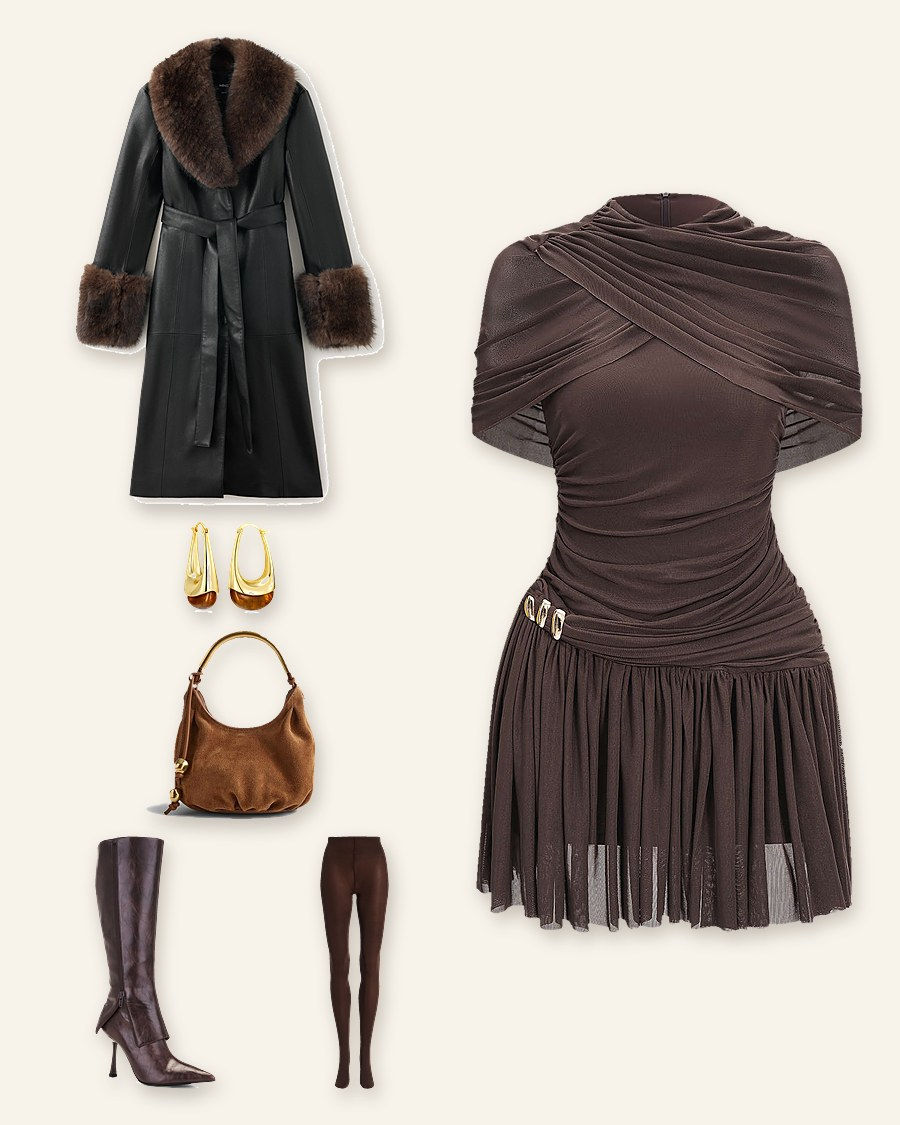
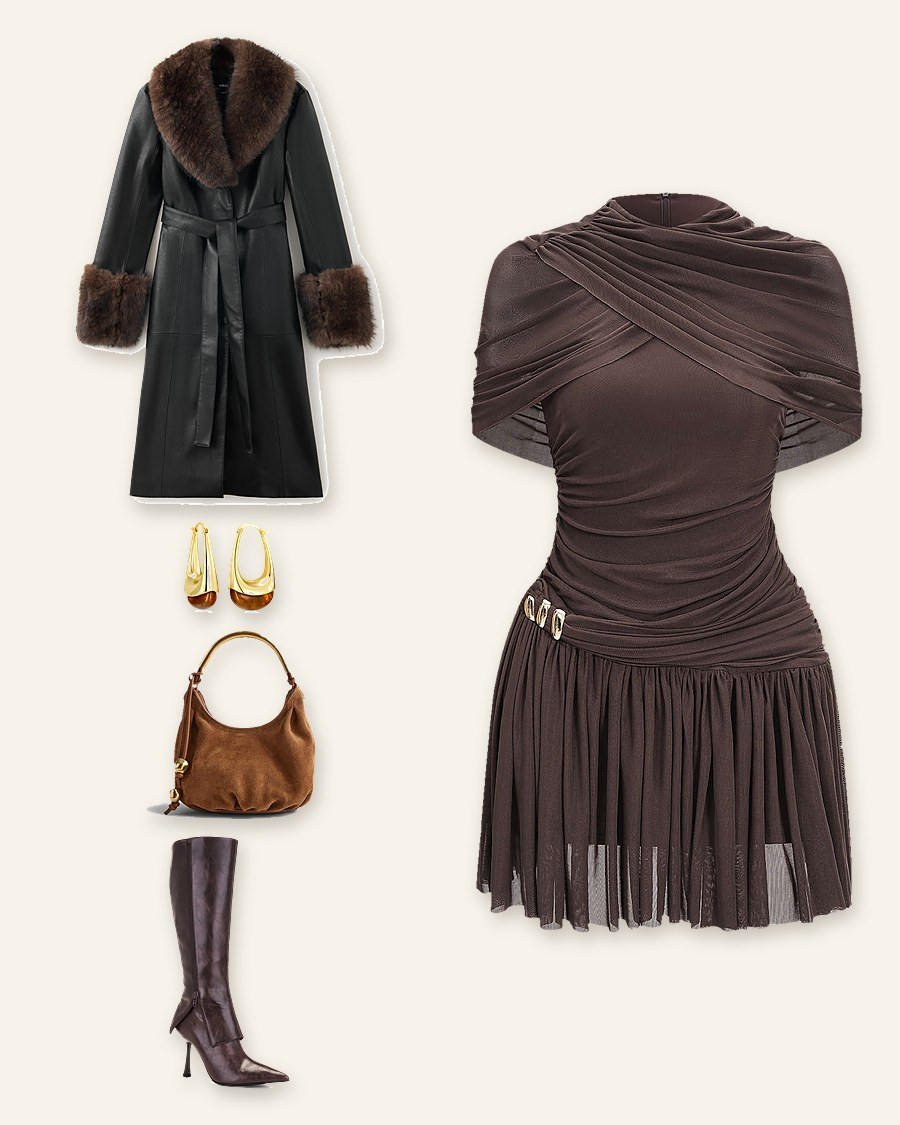
Winter Edit: tights off five looks, corset look gets new pants, Cocoa Trench new shoes, Mary Jane Monday loses the jacket
Claude-Session: https://claude.ai/code/session_01FUdN8BrrqRcBgv91ujUewX

Changed region(s): [[0.0933, 0.7467, 0.3111, 0.9956], [0.3422, 0.7156, 0.4356, 0.9644]]

diff --git a/lookbook.js b/lookbook.js
@@ -12,16 +12,16 @@ var LOOKBOOK = [
   {"title": "Lemon Drop", "slug": "lemon-drop", "pieces": ["Yellow mesh one-shoulder mini dress", "Black and zebra platform sandals", "Burgundy slouchy hobo bag", "Chunky gold amber earrings", "Chunky bangle set"], "wear": ["Birthday", "Night out"], "tag": "Birthday", "colors": [["Butter", "#E8D36A"], ["Taupe", "#8B7B6B"], ["Chocolate", "#4A2A1E"]], "caption": "A Winter Edit look: yellow mesh one-shoulder mini dress, finished with black and zebra platform sandals and a burgundy slouchy hobo bag.", "image": "images/lookbook/art-lemon-drop.jpg", "art": "images/lookbook/art-lemon-drop.jpg", "alt": "HerStyleVault Edit style board: yellow mesh one-shoulder mini dress, black and zebra platform sandals, burgundy slouchy hobo bag, chunky gold amber earrings, chunky bangle set"},
   {"title": "Navy & Merlot", "slug": "navy-and-merlot", "pieces": ["Navy flare-sleeve cinched dress", "Burgundy platform knit boots", "Burgundy croc box bag", "Tortoise gold hoop earrings", "Black tights"], "wear": ["Wedding guest", "Dinner"], "tag": "Wedding guest", "colors": [["Navy", "#1E2B4F"], ["Chocolate", "#4A2A1E"]], "caption": "A Winter Edit look: navy flare-sleeve cinched dress, finished with burgundy platform knit boots and a burgundy croc box bag.", "image": "images/lookbook/art-navy-and-merlot.jpg", "art": "images/lookbook/art-navy-and-merlot.jpg", "alt": "HerStyleVault Edit style board: navy flare-sleeve cinched dress, burgundy platform knit boots, burgundy croc box bag, tortoise gold hoop earrings, black tights"},
   {"title": "Satin Espresso", "slug": "satin-espresso", "pieces": ["Brown satin halter and pants set", "Cow-print slingback heels", "Brown suede clutch", "Chunky gold amber earrings", "Pink-burgundy oval sunglasses"], "wear": ["Date night", "Dinner", "Wedding guest"], "tag": "Date night", "colors": [["Chocolate", "#4A2A1E"], ["Gray", "#8B8B8B"]], "caption": "A Winter Edit look: brown satin halter and pants set, finished with cow-print slingback heels and a brown suede clutch.", "image": "images/lookbook/art-satin-espresso.jpg", "art": "images/lookbook/art-satin-espresso.jpg", "alt": "HerStyleVault Edit style board: brown satin halter and pants set, cow-print slingback heels, brown suede clutch, chunky gold amber earrings, pink-burgundy oval sunglasses"},
-  {"title": "Cocoa Leather Moment", "slug": "cocoa-leather-moment", "pieces": ["Brown faux-leather peplum top", "Brown faux-leather skirt", "Brown multi stiletto booties", "Patchwork shoulder bag", "Chunky gold amber earrings", "Burgundy sheer tights"], "wear": ["Night out", "Dinner"], "tag": "Night out", "colors": [["Chocolate", "#4A2A1E"], ["Espresso", "#33211B"], ["Gray", "#8B8B8B"]], "caption": "A Winter Edit look: brown faux-leather peplum top, brown faux-leather skirt, finished with brown multi stiletto booties and a patchwork shoulder bag.", "image": "images/lookbook/art-cocoa-leather-moment.jpg", "art": "images/lookbook/art-cocoa-leather-moment.jpg", "alt": "HerStyleVault Edit style board: brown faux-leather peplum top, brown faux-leather skirt, brown multi stiletto booties, patchwork shoulder bag, chunky gold amber earrings"},
+  {"title": "Cocoa Leather Moment", "slug": "cocoa-leather-moment", "pieces": ["Brown faux-leather peplum top", "Brown faux-leather skirt", "Brown multi stiletto booties", "Patchwork shoulder bag", "Chunky gold amber earrings"], "wear": ["Night out", "Dinner"], "tag": "Night out", "colors": [["Chocolate", "#4A2A1E"], ["Espresso", "#33211B"], ["Gray", "#8B8B8B"]], "caption": "A Winter Edit look: brown faux-leather peplum top, brown faux-leather skirt, finished with brown multi stiletto booties and a patchwork shoulder bag.", "image": "images/lookbook/art-cocoa-leather-moment.jpg", "art": "images/lookbook/art-cocoa-leather-moment.jpg", "alt": "HerStyleVault Edit style board: brown faux-leather peplum top, brown faux-leather skirt, brown multi stiletto booties, patchwork shoulder bag, chunky gold amber earrings"},
   {"title": "Cocoa Errands", "slug": "cocoa-errands", "pieces": ["Brown tracksuit set", "Green Nike Air Rift sneakers", "Burgundy slouchy hobo bag", "Tortoise gold hoop earrings", "Brown Kangol cap", "Green tinted sunglasses"], "wear": ["Day out", "Brunch"], "tag": "Day out", "colors": [["Chocolate", "#4A2A1E"], ["Forest", "#1E4D36"]], "caption": "A Winter Edit look: brown tracksuit set, finished with green Nike Air Rift sneakers and a burgundy slouchy hobo bag.", "image": "images/lookbook/art-cocoa-errands.jpg", "art": "images/lookbook/art-cocoa-errands.jpg", "alt": "HerStyleVault Edit style board: brown tracksuit set, green Nike Air Rift sneakers, burgundy slouchy hobo bag, tortoise gold hoop earrings, brown Kangol cap"},
   {"title": "Vest Assured", "slug": "vest-assured", "pieces": ["Navy vest and striped shirt", "Brown tailored trousers", "Burgundy Mary Jane flats", "Burgundy slouchy hobo bag", "Chunky gold amber earrings", "Burgundy dial gold watch"], "wear": ["Day out", "Birthday"], "tag": "Day out", "colors": [["Powder blue", "#8FA9C9"], ["Chocolate", "#4A2A1E"]], "caption": "A Winter Edit look: navy vest and striped shirt, brown tailored trousers, finished with burgundy Mary Jane flats and a burgundy slouchy hobo bag.", "image": "images/lookbook/art-vest-assured.jpg", "art": "images/lookbook/art-vest-assured.jpg", "alt": "HerStyleVault Edit style board: navy vest and striped shirt, brown tailored trousers, burgundy Mary Jane flats, burgundy slouchy hobo bag, chunky gold amber earrings"},
   {"title": "Powder Blue Sunday", "slug": "powder-blue-sunday", "pieces": ["Powder blue knit zip-up", "Khaki wide-leg jeans", "Burgundy kitten-heel slingbacks", "Burgundy slouchy hobo bag", "Tortoise gold hoop earrings", "Chunky bangle set"], "wear": ["Baby shower", "Brunch", "Day out"], "tag": "Baby shower", "colors": [["Powder blue", "#8FA9C9"], ["Taupe", "#8B7B6B"], ["Chocolate", "#4A2A1E"]], "caption": "A Winter Edit look: powder blue knit zip-up, khaki wide-leg jeans, finished with burgundy kitten-heel slingbacks and a burgundy slouchy hobo bag.", "image": "images/lookbook/art-powder-blue-sunday.jpg", "art": "images/lookbook/art-powder-blue-sunday.jpg", "alt": "HerStyleVault Edit style board: powder blue knit zip-up, khaki wide-leg jeans, burgundy kitten-heel slingbacks, burgundy slouchy hobo bag, tortoise gold hoop earrings"},
-  {"title": "Pinstripe & Platforms", "slug": "pinstripe-and-platforms", "pieces": ["Gray lace-up cutout top", "Black pinstripe jorts", "Burgundy platform knit boots", "Brown suede clutch", "Chunky gold amber earrings", "Black tights"], "wear": ["Night out", "Birthday"], "tag": "Night out", "colors": [["Olive", "#5C5A3A"], ["Espresso", "#33211B"], ["Chocolate", "#4A2A1E"]], "caption": "A Winter Edit look: gray lace-up cutout top, black pinstripe jorts, finished with burgundy platform knit boots and a brown suede clutch.", "image": "images/lookbook/art-pinstripe-and-platforms.jpg", "art": "images/lookbook/art-pinstripe-and-platforms.jpg", "alt": "HerStyleVault Edit style board: gray lace-up cutout top, black pinstripe jorts, burgundy platform knit boots, brown suede clutch, chunky gold amber earrings"},
+  {"title": "Pinstripe & Platforms", "slug": "pinstripe-and-platforms", "pieces": ["Gray lace-up cutout top", "Black pinstripe jorts", "Burgundy platform knit boots", "Brown suede clutch", "Chunky gold amber earrings"], "wear": ["Night out", "Birthday"], "tag": "Night out", "colors": [["Olive", "#5C5A3A"], ["Espresso", "#33211B"], ["Chocolate", "#4A2A1E"]], "caption": "A Winter Edit look: gray lace-up cutout top, black pinstripe jorts, finished with burgundy platform knit boots and a brown suede clutch.", "image": "images/lookbook/art-pinstripe-and-platforms.jpg", "art": "images/lookbook/art-pinstripe-and-platforms.jpg", "alt": "HerStyleVault Edit style board: gray lace-up cutout top, black pinstripe jorts, burgundy platform knit boots, brown suede clutch, chunky gold amber earrings"},
   {"title": "Cheetah Capri Club", "slug": "cheetah-capri-club", "pieces": ["Black asymmetric-neck sweatshirt", "Leopard denim capris", "Brown multi stiletto booties", "Burgundy croc box bag", "Tortoise gold hoop earrings", "Chunky bangle set"], "wear": ["Day out", "Brunch", "Night out"], "tag": "Day out", "colors": [["Black", "#1A1A1A"], ["Olive", "#5C5A3A"], ["Gray", "#8B8B8B"], ["Chocolate", "#4A2A1E"]], "caption": "A Winter Edit look: black asymmetric-neck sweatshirt, leopard denim capris, finished with brown multi stiletto booties and a burgundy croc box bag.", "image": "images/lookbook/art-cheetah-capri-club.jpg", "art": "images/lookbook/art-cheetah-capri-club.jpg", "alt": "HerStyleVault Edit style board: black asymmetric-neck sweatshirt, leopard denim capris, brown multi stiletto booties, burgundy croc box bag, tortoise gold hoop earrings"},
-  {"title": "Chocolate Chic", "slug": "chocolate-chic", "pieces": ["Brown ruched pleated-hem mini dress", "Black faux-leather coat with fur trim", "Brown knee-high boots", "Cognac suede hobo bag", "Chunky gold amber earrings", "Brown tights"], "wear": ["Dinner", "Birthday", "Night out"], "tag": "Dinner", "colors": [["Chocolate", "#4A2A1E"], ["Olive", "#5C5A3A"]], "caption": "A Winter Edit look: brown ruched pleated-hem mini dress with black faux-leather coat with fur trim, finished with brown knee-high boots and a cognac suede hobo bag.", "image": "images/lookbook/art-chocolate-chic.jpg", "art": "images/lookbook/art-chocolate-chic.jpg", "alt": "HerStyleVault Edit style board: brown ruched pleated-hem mini dress, black faux-leather coat with fur trim, brown knee-high boots, cognac suede hobo bag, chunky gold amber earrings"},
+  {"title": "Chocolate Chic", "slug": "chocolate-chic", "pieces": ["Brown ruched pleated-hem mini dress", "Black faux-leather coat with fur trim", "Brown knee-high boots", "Cognac suede hobo bag", "Chunky gold amber earrings"], "wear": ["Dinner", "Birthday", "Night out"], "tag": "Dinner", "colors": [["Chocolate", "#4A2A1E"], ["Olive", "#5C5A3A"]], "caption": "A Winter Edit look: brown ruched pleated-hem mini dress with black faux-leather coat with fur trim, finished with brown knee-high boots and a cognac suede hobo bag.", "image": "images/lookbook/art-chocolate-chic.jpg", "art": "images/lookbook/art-chocolate-chic.jpg", "alt": "HerStyleVault Edit style board: brown ruched pleated-hem mini dress, black faux-leather coat with fur trim, brown knee-high boots, cognac suede hobo bag, chunky gold amber earrings"},
   {"title": "Distressed Date", "slug": "distressed-date", "pieces": ["Black fitted turtleneck", "Yellow and black distressed jeans", "Burgundy kitten-heel slingbacks", "Burgundy slouchy hobo bag", "Tortoise gold hoop earrings", "Pink-burgundy oval sunglasses"], "wear": ["Day out", "Date night"], "tag": "Day out", "colors": [["Black", "#1A1A1A"], ["Taupe", "#8B7B6B"], ["Chocolate", "#4A2A1E"]], "caption": "A Winter Edit look: black fitted turtleneck, yellow and black distressed jeans, finished with burgundy kitten-heel slingbacks and a burgundy slouchy hobo bag.", "image": "images/lookbook/art-distressed-date.jpg", "art": "images/lookbook/art-distressed-date.jpg", "alt": "HerStyleVault Edit style board: black fitted turtleneck, yellow and black distressed jeans, burgundy kitten-heel slingbacks, burgundy slouchy hobo bag, tortoise gold hoop earrings"},
   {"title": "Tie-Belt Tuesday", "slug": "tie-belt-tuesday", "pieces": ["Gray fitted zip cardigan", "Black tie-belt jeans", "Burgundy Mary Jane flats", "Burgundy croc box bag", "Tortoise gold hoop earrings", "Chunky bangle set"], "wear": ["Day out", "Brunch"], "tag": "Day out", "colors": [["Taupe", "#8B7B6B"], ["Black", "#1A1A1A"], ["Chocolate", "#4A2A1E"]], "caption": "A Winter Edit look: gray fitted zip cardigan, black tie-belt jeans, finished with burgundy Mary Jane flats and a burgundy croc box bag.", "image": "images/lookbook/art-tie-belt-tuesday.jpg", "art": "images/lookbook/art-tie-belt-tuesday.jpg", "alt": "HerStyleVault Edit style board: gray fitted zip cardigan, black tie-belt jeans, burgundy Mary Jane flats, burgundy croc box bag, tortoise gold hoop earrings"},
-  {"title": "Suede Season", "slug": "suede-season", "pieces": ["Brown pinstripe flare-sleeve top", "Brown suede Bermuda shorts", "Brown knee-high boots", "Cognac suede hobo bag", "Chunky gold amber earrings", "Brown tights"], "wear": ["Day out", "Brunch", "Birthday"], "tag": "Day out", "colors": [["Chocolate", "#4A2A1E"], ["Rust", "#964A28"], ["Olive", "#5C5A3A"]], "caption": "A Winter Edit look: brown pinstripe flare-sleeve top, brown suede Bermuda shorts, finished with brown knee-high boots and a cognac suede hobo bag.", "image": "images/lookbook/art-suede-season.jpg", "art": "images/lookbook/art-suede-season.jpg", "alt": "HerStyleVault Edit style board: brown pinstripe flare-sleeve top, brown suede Bermuda shorts, brown knee-high boots, cognac suede hobo bag, chunky gold amber earrings"},
+  {"title": "Suede Season", "slug": "suede-season", "pieces": ["Brown pinstripe flare-sleeve top", "Brown suede Bermuda shorts", "Brown knee-high boots", "Cognac suede hobo bag", "Chunky gold amber earrings"], "wear": ["Day out", "Brunch", "Birthday"], "tag": "Day out", "colors": [["Chocolate", "#4A2A1E"], ["Rust", "#964A28"], ["Olive", "#5C5A3A"]], "caption": "A Winter Edit look: brown pinstripe flare-sleeve top, brown suede Bermuda shorts, finished with brown knee-high boots and a cognac suede hobo bag.", "image": "images/lookbook/art-suede-season.jpg", "art": "images/lookbook/art-suede-season.jpg", "alt": "HerStyleVault Edit style board: brown pinstripe flare-sleeve top, brown suede Bermuda shorts, brown knee-high boots, cognac suede hobo bag, chunky gold amber earrings"},
   {"title": "Tobacco Road", "slug": "tobacco-road", "pieces": ["Black fitted turtleneck", "Olive wide-leg pants", "Brown leather trench coat", "Green Nike Air Rift sneakers", "Cognac suede hobo bag", "Chunky gold amber earrings", "Brown aviator sunglasses"], "wear": ["Day out"], "tag": "Day out", "colors": [["Black", "#1A1A1A"], ["Espresso", "#33211B"], ["Chocolate", "#4A2A1E"], ["Forest", "#1E4D36"], ["Olive", "#5C5A3A"]], "caption": "A Winter Edit look: black fitted turtleneck, olive wide-leg pants with brown leather trench coat, finished with green Nike Air Rift sneakers and a cognac suede hobo bag.", "image": "images/lookbook/art-tobacco-road.jpg", "art": "images/lookbook/art-tobacco-road.jpg", "alt": "HerStyleVault Edit style board: black fitted turtleneck, olive wide-leg pants, brown leather trench coat, green Nike Air Rift sneakers, cognac suede hobo bag"},
   {"title": "Stripes & Slouch", "slug": "stripes-and-slouch", "pieces": ["Striped half-zip knit sweater", "Gray barrel pants", "Burgundy Mary Jane flats", "Burgundy slouchy hobo bag", "Tortoise gold hoop earrings", "Brown Kangol cap"], "wear": ["Day out", "Brunch"], "tag": "Day out", "colors": [["Rust", "#964A28"], ["Powder blue", "#8FA9C9"], ["Chocolate", "#4A2A1E"]], "caption": "A Winter Edit look: striped half-zip knit sweater, gray barrel pants, finished with burgundy Mary Jane flats and a burgundy slouchy hobo bag.", "image": "images/lookbook/art-stripes-and-slouch.jpg", "art": "images/lookbook/art-stripes-and-slouch.jpg", "alt": "HerStyleVault Edit style board: striped half-zip knit sweater, gray barrel pants, burgundy Mary Jane flats, burgundy slouchy hobo bag, tortoise gold hoop earrings"},
   {"title": "Mocha Knit Set", "slug": "mocha-knit-set", "pieces": ["Brown knit lounge set", "Burgundy Mary Jane flats", "Cognac suede hobo bag", "Tortoise gold hoop earrings", "Chunky bangle set"], "wear": ["Brunch", "Day out"], "tag": "Brunch", "colors": [["Espresso", "#33211B"], ["Chocolate", "#4A2A1E"], ["Olive", "#5C5A3A"]], "caption": "A Winter Edit look: brown knit lounge set, finished with burgundy Mary Jane flats and a cognac suede hobo bag.", "image": "images/lookbook/art-mocha-knit-set.jpg", "art": "images/lookbook/art-mocha-knit-set.jpg", "alt": "HerStyleVault Edit style board: brown knit lounge set, burgundy Mary Jane flats, cognac suede hobo bag, tortoise gold hoop earrings, chunky bangle set"},
@@ -31,14 +31,14 @@ var LOOKBOOK = [
   {"title": "Olive Evening", "slug": "olive-evening", "pieces": ["Olive faux-leather corset mini dress", "Chocolate wedge gladiator sandals", "Brown suede clutch", "Chunky bangle set", "Chunky gold amber earrings"], "wear": ["Dinner", "Night out"], "tag": "Dinner", "colors": [["Olive", "#5C5A3A"], ["Chocolate", "#4A2A1E"]], "caption": "A Winter Edit look: olive faux-leather corset mini dress, finished with chocolate wedge gladiator sandals and a brown suede clutch.", "image": "images/lookbook/art-olive-evening.jpg", "art": "images/lookbook/art-olive-evening.jpg", "alt": "HerStyleVault Edit style board: olive faux-leather corset mini dress, chocolate wedge gladiator sandals, brown suede clutch, chunky bangle set, chunky gold amber earrings"},
   {"title": "Red on Red", "slug": "red-on-red", "pieces": ["Burgundy pleated leather mini dress", "Red buckle jacket", "Burgundy platform knit boots", "Burgundy croc box bag", "Chunky gold amber earrings", "Black tights"], "wear": ["Night out", "Birthday"], "tag": "Night out", "colors": [["Chocolate", "#4A2A1E"], ["Burgundy", "#6B1B2A"]], "caption": "A Winter Edit look: burgundy pleated leather mini dress with red buckle jacket, finished with burgundy platform knit boots and a burgundy croc box bag.", "image": "images/lookbook/art-red-on-red.jpg", "art": "images/lookbook/art-red-on-red.jpg", "alt": "HerStyleVault Edit style board: burgundy pleated leather mini dress, red buckle jacket, burgundy platform knit boots, burgundy croc box bag, chunky gold amber earrings"},
   {"title": "Leopard & Black", "slug": "leopard-and-black", "pieces": ["Black fitted turtleneck", "Leopard leather pants", "Black faux-leather coat with fur trim", "Chocolate wedge gladiator sandals", "Cognac suede hobo bag", "Tortoise gold hoop earrings", "Pink-burgundy oval sunglasses"], "wear": ["Dinner", "Day out"], "tag": "Dinner", "colors": [["Black", "#1A1A1A"], ["Olive", "#5C5A3A"], ["Chocolate", "#4A2A1E"]], "caption": "A Winter Edit look: black fitted turtleneck, leopard leather pants with black faux-leather coat with fur trim, finished with chocolate wedge gladiator sandals and a cognac suede hobo bag.", "image": "images/lookbook/art-leopard-and-black.jpg", "art": "images/lookbook/art-leopard-and-black.jpg", "alt": "HerStyleVault Edit style board: black fitted turtleneck, leopard leather pants, black faux-leather coat with fur trim, chocolate wedge gladiator sandals, cognac suede hobo bag"},
-  {"title": "Corset & Cargo", "slug": "corset-and-cargo", "pieces": ["Black high-neck corset top", "Olive wide-leg pants", "Chocolate wedge gladiator sandals", "Patchwork shoulder bag", "Chunky bangle set", "Pink-burgundy oval sunglasses"], "wear": ["Night out", "Day out"], "tag": "Night out", "colors": [["Black", "#1A1A1A"], ["Espresso", "#33211B"], ["Chocolate", "#4A2A1E"]], "caption": "A Winter Edit look: black high-neck corset top, olive wide-leg pants, finished with chocolate wedge gladiator sandals and a patchwork shoulder bag.", "image": "images/lookbook/art-corset-and-cargo.jpg", "art": "images/lookbook/art-corset-and-cargo.jpg", "alt": "HerStyleVault Edit style board: black high-neck corset top, olive wide-leg pants, chocolate wedge gladiator sandals, patchwork shoulder bag, chunky bangle set"},
+  {"title": "Corset & Khaki", "slug": "corset-and-khaki", "pieces": ["Black high-neck corset top", "Khaki wide-leg jeans", "Chocolate wedge gladiator sandals", "Patchwork shoulder bag", "Chunky bangle set", "Pink-burgundy oval sunglasses"], "wear": ["Night out", "Day out"], "tag": "Night out", "colors": [["Black", "#1A1A1A"], ["Taupe", "#8B7B6B"], ["Chocolate", "#4A2A1E"]], "caption": "A Winter Edit look: black high-neck corset top, khaki wide-leg jeans, finished with chocolate wedge gladiator sandals and a patchwork shoulder bag.", "image": "images/lookbook/art-corset-and-khaki.jpg", "art": "images/lookbook/art-corset-and-khaki.jpg", "alt": "HerStyleVault Edit style board: black high-neck corset top, khaki wide-leg jeans, chocolate wedge gladiator sandals, patchwork shoulder bag, chunky bangle set"},
   {"title": "Soft Neutral Shower", "slug": "soft-neutral-shower", "pieces": ["Black fitted turtleneck", "Cream and brown pleated midi skirt", "Brown knee-high boots", "Brown suede clutch", "Chunky gold amber earrings", "Chunky bangle set"], "wear": ["Baby shower", "Brunch", "Birthday"], "tag": "Baby shower", "colors": [["Black", "#1A1A1A"], ["Gray", "#8B8B8B"], ["Olive", "#5C5A3A"], ["Chocolate", "#4A2A1E"]], "caption": "A Winter Edit look: black fitted turtleneck, cream and brown pleated midi skirt, finished with brown knee-high boots and a brown suede clutch.", "image": "images/lookbook/art-soft-neutral-shower.jpg", "art": "images/lookbook/art-soft-neutral-shower.jpg", "alt": "HerStyleVault Edit style board: black fitted turtleneck, cream and brown pleated midi skirt, brown knee-high boots, brown suede clutch, chunky gold amber earrings"},
   {"title": "Gray Cardi Shower", "slug": "gray-cardi-shower", "pieces": ["Gray fitted zip cardigan", "Cream and brown pleated midi skirt", "Burgundy kitten-heel slingbacks", "Burgundy slouchy hobo bag", "Tortoise gold hoop earrings", "Chunky bangle set"], "wear": ["Baby shower", "Brunch"], "tag": "Baby shower", "colors": [["Taupe", "#8B7B6B"], ["Gray", "#8B8B8B"], ["Chocolate", "#4A2A1E"]], "caption": "A Winter Edit look: gray fitted zip cardigan, cream and brown pleated midi skirt, finished with burgundy kitten-heel slingbacks and a burgundy slouchy hobo bag.", "image": "images/lookbook/art-gray-cardi-shower.jpg", "art": "images/lookbook/art-gray-cardi-shower.jpg", "alt": "HerStyleVault Edit style board: gray fitted zip cardigan, cream and brown pleated midi skirt, burgundy kitten-heel slingbacks, burgundy slouchy hobo bag, tortoise gold hoop earrings"},
   {"title": "Satin & Fur", "slug": "satin-and-fur", "pieces": ["Brown satin halter and pants set", "Black faux-leather coat with fur trim", "Burgundy kitten-heel slingbacks", "Burgundy croc box bag", "Chunky gold amber earrings", "Tortoise gold hoop earrings"], "wear": ["Dinner", "Date night"], "tag": "Dinner", "colors": [["Chocolate", "#4A2A1E"]], "caption": "A Winter Edit look: brown satin halter and pants set with black faux-leather coat with fur trim, finished with burgundy kitten-heel slingbacks and a burgundy croc box bag.", "image": "images/lookbook/art-satin-and-fur.jpg", "art": "images/lookbook/art-satin-and-fur.jpg", "alt": "HerStyleVault Edit style board: brown satin halter and pants set, black faux-leather coat with fur trim, burgundy kitten-heel slingbacks, burgundy croc box bag, chunky gold amber earrings"},
-  {"title": "Cocoa Trench", "slug": "cocoa-trench", "pieces": ["Brown faux-leather peplum top", "Brown faux-leather skirt", "Brown leather trench coat", "Brown multi stiletto booties", "Brown suede clutch", "Chunky gold amber earrings", "Burgundy sheer tights"], "wear": ["Night out", "Dinner"], "tag": "Night out", "colors": [["Chocolate", "#4A2A1E"], ["Espresso", "#33211B"], ["Gray", "#8B8B8B"]], "caption": "A Winter Edit look: brown faux-leather peplum top, brown faux-leather skirt with brown leather trench coat, finished with brown multi stiletto booties and a brown suede clutch.", "image": "images/lookbook/art-cocoa-trench.jpg", "art": "images/lookbook/art-cocoa-trench.jpg", "alt": "HerStyleVault Edit style board: brown faux-leather peplum top, brown faux-leather skirt, brown leather trench coat, brown multi stiletto booties, brown suede clutch"},
+  {"title": "Cocoa Trench", "slug": "cocoa-trench", "pieces": ["Brown faux-leather peplum top", "Brown faux-leather skirt", "Brown leather trench coat", "Chocolate wedge gladiator sandals", "Brown suede clutch", "Chunky gold amber earrings"], "wear": ["Night out", "Dinner"], "tag": "Night out", "colors": [["Chocolate", "#4A2A1E"], ["Espresso", "#33211B"]], "caption": "A Winter Edit look: brown faux-leather peplum top, brown faux-leather skirt with brown leather trench coat, finished with chocolate wedge gladiator sandals and a brown suede clutch.", "image": "images/lookbook/art-cocoa-trench.jpg", "art": "images/lookbook/art-cocoa-trench.jpg", "alt": "HerStyleVault Edit style board: brown faux-leather peplum top, brown faux-leather skirt, brown leather trench coat, chocolate wedge gladiator sandals, brown suede clutch"},
   {"title": "Navy Stripe Set", "slug": "navy-stripe-set", "pieces": ["Navy striped shirt and black pants set", "Burgundy kitten-heel slingbacks", "Burgundy croc box bag", "Tortoise gold hoop earrings", "Chunky bangle set"], "wear": ["Day out", "Dinner"], "tag": "Day out", "colors": [["Navy", "#1E2B4F"], ["Chocolate", "#4A2A1E"]], "caption": "A Winter Edit look: navy striped shirt and black pants set, finished with burgundy kitten-heel slingbacks and a burgundy croc box bag.", "image": "images/lookbook/art-navy-stripe-set.jpg", "art": "images/lookbook/art-navy-stripe-set.jpg", "alt": "HerStyleVault Edit style board: navy striped shirt and black pants set, burgundy kitten-heel slingbacks, burgundy croc box bag, tortoise gold hoop earrings, chunky bangle set"},
   {"title": "Sporty Chic", "slug": "sporty-chic", "pieces": ["Striped half-zip knit sweater", "Black tie-belt jeans", "Green Nike Air Rift sneakers", "Burgundy croc box bag", "Tortoise gold hoop earrings", "Red Kangol cap", "Green tinted sunglasses"], "wear": ["Day out"], "tag": "Day out", "colors": [["Rust", "#964A28"], ["Black", "#1A1A1A"], ["Forest", "#1E4D36"], ["Chocolate", "#4A2A1E"]], "caption": "A Winter Edit look: striped half-zip knit sweater, black tie-belt jeans, finished with green Nike Air Rift sneakers and a burgundy croc box bag.", "image": "images/lookbook/art-sporty-chic.jpg", "art": "images/lookbook/art-sporty-chic.jpg", "alt": "HerStyleVault Edit style board: striped half-zip knit sweater, black tie-belt jeans, green Nike Air Rift sneakers, burgundy croc box bag, tortoise gold hoop earrings"},
-  {"title": "Mary Jane Monday", "slug": "mary-jane-monday", "pieces": ["Brown knit vest with red collar", "Brown tailored trousers", "Navy structured peplum jacket", "Burgundy Mary Jane flats", "Burgundy croc box bag", "Tortoise gold hoop earrings", "Chunky gold amber earrings"], "wear": ["Day out", "Brunch"], "tag": "Day out", "colors": [["Chocolate", "#4A2A1E"], ["Navy", "#1E2B4F"]], "caption": "A Winter Edit look: brown knit vest with red collar, brown tailored trousers with navy structured peplum jacket, finished with burgundy Mary Jane flats and a burgundy croc box bag.", "image": "images/lookbook/art-mary-jane-monday.jpg", "art": "images/lookbook/art-mary-jane-monday.jpg", "alt": "HerStyleVault Edit style board: brown knit vest with red collar, brown tailored trousers, navy structured peplum jacket, burgundy Mary Jane flats, burgundy croc box bag"},
+  {"title": "Mary Jane Monday", "slug": "mary-jane-monday", "pieces": ["Brown knit vest with red collar", "Brown tailored trousers", "Burgundy Mary Jane flats", "Burgundy croc box bag", "Tortoise gold hoop earrings", "Chunky gold amber earrings"], "wear": ["Day out", "Brunch"], "tag": "Day out", "colors": [["Chocolate", "#4A2A1E"]], "caption": "A Winter Edit look: brown knit vest with red collar, brown tailored trousers, finished with burgundy Mary Jane flats and a burgundy croc box bag.", "image": "images/lookbook/art-mary-jane-monday.jpg", "art": "images/lookbook/art-mary-jane-monday.jpg", "alt": "HerStyleVault Edit style board: brown knit vest with red collar, brown tailored trousers, burgundy Mary Jane flats, burgundy croc box bag, tortoise gold hoop earrings"},
   {"title": "Bordeaux Bomber", "slug": "bordeaux-bomber", "pieces": ["Burgundy suede-look mock neck mini dress", "Burgundy leather bomber jacket", "Burgundy kitten-heel slingbacks", "Mulberry wand clutch", "Chunky gold amber earrings", "Burgundy dial gold watch"], "wear": ["Date night", "Dinner", "Birthday"], "tag": "Date night", "colors": [["Chocolate", "#4A2A1E"], ["Taupe", "#8B7B6B"]], "caption": "A Winter Edit look: burgundy suede-look mock neck mini dress with burgundy leather bomber jacket, finished with burgundy kitten-heel slingbacks and a mulberry wand clutch.", "image": "images/lookbook/art-bordeaux-bomber.jpg", "art": "images/lookbook/art-bordeaux-bomber.jpg", "alt": "HerStyleVault Edit style board: burgundy suede-look mock neck mini dress, burgundy leather bomber jacket, burgundy kitten-heel slingbacks, mulberry wand clutch, chunky gold amber earrings"},
   {"title": "Fringe Benefits", "slug": "fringe-benefits", "pieces": ["Brown ruched pleated-hem mini dress", "Chocolate wedge gladiator sandals", "Brown suede clutch", "Tortoise gold hoop earrings"], "wear": ["Date night", "Dinner", "Night out"], "tag": "Date night", "colors": [["Chocolate", "#4A2A1E"]], "caption": "A Winter Edit look: brown ruched pleated-hem mini dress, finished with chocolate wedge gladiator sandals and a brown suede clutch.", "image": "images/lookbook/art-fringe-benefits.jpg", "art": "images/lookbook/art-fringe-benefits.jpg", "alt": "HerStyleVault Edit style board: brown ruched pleated-hem mini dress, chocolate wedge gladiator sandals, brown suede clutch, tortoise gold hoop earrings"},
   {"title": "Pleats Under the Trench", "slug": "pleats-under-the-trench", "pieces": ["Brown knit vest with red collar", "Cream and brown pleated midi skirt", "Brown leather trench coat", "Burgundy kitten-heel slingbacks", "Cognac suede hobo bag", "Tortoise gold hoop earrings"], "wear": ["Day out", "Brunch", "Baby shower"], "tag": "Day out", "colors": [["Chocolate", "#4A2A1E"], ["Gray", "#8B8B8B"], ["Olive", "#5C5A3A"]], "caption": "A Winter Edit look: brown knit vest with red collar, cream and brown pleated midi skirt with brown leather trench coat, finished with burgundy kitten-heel slingbacks and a cognac suede hobo bag.", "image": "images/lookbook/art-pleats-under-the-trench.jpg", "art": "images/lookbook/art-pleats-under-the-trench.jpg", "alt": "HerStyleVault Edit style board: brown knit vest with red collar, cream and brown pleated midi skirt, brown leather trench coat, burgundy kitten-heel slingbacks, cognac suede hobo bag"},

diff --git a/style-11-looks.js b/style-11-looks.js
@@ -1168,10 +1168,10 @@ window.STYLE11_LOOKS = [
     "url": "https://azaleawang.com/products/amada-brownmulti?utm_source=Pinterest&utm_medium=organic&variant=46375515324655",
     "affiliate": false,
     "box": [
-     3.4,
-     57.8,
-     27.9,
-     34.3
+     7.5,
+     52.7,
+     36.1,
+     44.5
     ]
    },
    {
@@ -1611,10 +1611,10 @@ window.STYLE11_LOOKS = [
     "url": "https://www.jwpei.com/products/reyna-square-toe-platform-knit-boots-claret-red?option1=9%20%7C%20US",
     "affiliate": false,
     "box": [
-     3.4,
-     58.6,
-     28.0,
-     32.7
+     6.5,
+     52.6,
+     38.1,
+     44.7
     ]
    },
    {
@@ -1833,7 +1833,7 @@ window.STYLE11_LOOKS = [
     "url": "https://www.revolve.com/raye-eden-overlay-boot-in-chocolate-brown/dp/RAYE-WZ2743/?cjdata=MXxOfDB8WXww&AID=11017645&PID=100046529&utm_medium=affiliate&utm_source=cj&source=cj&utm_campaign=glob_p_5370367&cjevent=a5713013e70911f1826b03320a82b821",
     "affiliate": false,
     "box": [
-     10.0,
+     18.2,
      73.8,
      14.8,
      23.6
@@ -2171,7 +2171,7 @@ window.STYLE11_LOOKS = [
     "url": "https://www.revolve.com/raye-eden-overlay-boot-in-chocolate-brown/dp/RAYE-WZ2743/?cjdata=MXxOfDB8WXww&AID=11017645&PID=100046529&utm_medium=affiliate&utm_source=cj&source=cj&utm_campaign=glob_p_5370367&cjevent=a5713013e70911f1826b03320a82b821",
     "affiliate": false,
     "box": [
-     3.7,
+     11.9,
      52.6,
      27.3,
      44.7
@@ -3205,25 +3205,25 @@ window.STYLE11_LOOKS = [
   ]
  },
  {
-  "title": "Corset & Cargo",
-  "short": "Corset & Cargo",
-  "art": "images/lookbook/art-corset-and-cargo.jpg",
-  "alt": "HerStyleVault Edit style board: black high-neck corset top, olive wide-leg pants, chocolate wedge gladiator sandals, patchwork shoulder bag, chunky bangle set",
+  "title": "Corset & Khaki",
+  "short": "Corset & Khaki",
+  "art": "images/lookbook/art-corset-and-khaki.jpg",
+  "alt": "HerStyleVault Edit style board: black high-neck corset top, khaki wide-leg jeans, chocolate wedge gladiator sandals, patchwork shoulder bag, chunky bangle set",
   "colors": [
    [
     "Black",
     "#1A1A1A"
    ],
    [
-    "Espresso",
-    "#33211B"
+    "Taupe",
+    "#8B7B6B"
    ],
    [
     "Chocolate",
     "#4A2A1E"
    ]
   ],
-  "slug": "corset-and-cargo",
+  "slug": "corset-and-khaki",
   "tags": {
    "occ": [
     "nightout",
@@ -3258,14 +3258,14 @@ window.STYLE11_LOOKS = [
     ]
    },
    {
-    "name": "Olive wide-leg pants",
+    "name": "Khaki wide-leg jeans",
     "type": "bottom",
-    "url": "https://shopgaui.com/products/essential-pants-tobacco?epik=dj0zJnU9RGpGeG1LUDNvUHBXSVRPcC1teXpta1VCSVdCTUpIM0smaT1PWTRvQU9BREFBQkFwQmxTRk1EeVAyTG1uY1ZOQVp0S1RreVh5eVZCdjM0JmE9LTEmcD0xJm49Q3k0QlZoS1psRlRCYm8tdGNpZWdYUSZ0PUFBQUFBR3NEdDFJ",
+    "url": "https://www.stories.com/en-ww/product/relaxed-wide-leg-jeans-khaki-green-1259944011/?epik=dj0yJnU9WjhNdjVickc5YmM1cmFmRDZvSmplQmNaeHVwX1ZfeVYmcD0wJm49ZWhYekRBRjFVT195T0VBOElrczVKdyZ0PUFBQUFBR3NEMm9n",
     "affiliate": false,
     "box": [
-     55.7,
+     54.0,
      43.6,
-     36.8,
+     40.2,
      53.8
     ]
    },
@@ -3667,7 +3667,7 @@ window.STYLE11_LOOKS = [
   "title": "Cocoa Trench",
   "short": "Cocoa Trench",
   "art": "images/lookbook/art-cocoa-trench.jpg",
-  "alt": "HerStyleVault Edit style board: brown faux-leather peplum top, brown faux-leather skirt, brown leather trench coat, brown multi stiletto booties, brown suede clutch",
+  "alt": "HerStyleVault Edit style board: brown faux-leather peplum top, brown faux-leather skirt, brown leather trench coat, chocolate wedge gladiator sandals, brown suede clutch",
   "colors": [
    [
     "Chocolate",
@@ -3676,10 +3676,6 @@ window.STYLE11_LOOKS = [
    [
     "Espresso",
     "#33211B"
-   ],
-   [
-    "Gray",
-    "#8B8B8B"
    ]
   ],
   "slug": "cocoa-trench",
@@ -3740,15 +3736,15 @@ window.STYLE11_LOOKS = [
     ]
    },
    {
-    "name": "Brown multi stiletto booties",
+    "name": "Chocolate wedge gladiator sandals",
     "type": "shoes",
-    "url": "https://azaleawang.com/products/amada-brownmulti?utm_source=Pinterest&utm_medium=organic&variant=46375515324655",
+    "url": "https://www.dillards.com/p/azalea-wang-douma-shin-guard-wrap-tie-gladiator-wedge-sandals/521088447?inf=909883537&utm_source=Pinterest&utm_medium=organic&epik=dj0yJnU9MXZiRmhDOUFPTnlraDZxSEtNbUt1WHVIRmhLMW1Lb1omcD0wJm49cjhHTERjeEhwZlFRWWNkbDdJejNkQSZ0PUFBQUFBR3NENE5Z",
     "affiliate": false,
     "box": [
-     7.7,
+     17.8,
      73.8,
-     19.3,
-     23.6
+     15.6,
+     23.5
     ]
    },
    {
@@ -4012,15 +4008,11 @@ window.STYLE11_LOOKS = [
   "title": "Mary Jane Monday",
   "short": "Mary Jane Monday",
   "art": "images/lookbook/art-mary-jane-monday.jpg",
-  "alt": "HerStyleVault Edit style board: brown knit vest with red collar, brown tailored trousers, navy structured peplum jacket, burgundy Mary Jane flats, burgundy croc box bag",
+  "alt": "HerStyleVault Edit style board: brown knit vest with red collar, brown tailored trousers, burgundy Mary Jane flats, burgundy croc box bag, tortoise gold hoop earrings",
   "colors": [
    [
     "Chocolate",
     "#4A2A1E"
-   ],
-   [
-    "Navy",
-    "#1E2B4F"
    ]
   ],
   "slug": "mary-jane-monday",
@@ -4069,25 +4061,13 @@ window.STYLE11_LOOKS = [
     ]
    },
    {
-    "name": "Navy structured peplum jacket",
-    "type": "outerwear",
-    "url": "https://editorialist.com/p/ma-mulier-zei-jacket/?sku=44097035&pla=true&utm_source=pinterest&utm_medium=social_pinterest&utm_campaign=pinterest",
-    "affiliate": false,
-    "box": [
-     3.4,
-     2.7,
-     44.2,
-     35.1
-    ]
-   },
-   {
     "name": "Burgundy Mary Jane flats",
     "type": "shoes",
     "url": "https://www.nordstromrack.com/s/puma-replicatch-ballet-croco-2s/9266067?utm_id=10078&utm_source_platform=impa&utm_source=Skimbit%20Ltd.&utm_medium=affcon&utm_campaign=cc~site_ma~nem_fl~mif_ow~jwn_tc~affcon_mk~usa_br~rack_lt~ntg_pb~affpub-10078_ff~alwaysonrack_pk~clk_id~b000a4eo&utm_creative_format=pd~textlink_pt~impa_ra~cps_ac~cont_ti~contextual_ff~alwaysonrack_id~d003xs59&utm_content=cv~Online%20Tracking%20Link_ct~txt_at~txt_ot~nof_mb~1000000_ff~alwaysonrack_id~f000x967&utm_term=con&irclickid=Tj6x9PXAwxyZRJZQXNSgmzzKUkrUqNTJyW1g2c0&irgwc=1&afsrc=1",
     "affiliate": false,
     "box": [
      3.3,
-     78.4,
+     67.8,
      44.4,
      14.3
     ]
@@ -4098,10 +4078,10 @@ window.STYLE11_LOOKS = [
     "url": "https://a.co/d/02DnbxrN",
     "affiliate": false,
     "box": [
-     14.2,
-     55.5,
-     22.8,
-     17.9
+     5.6,
+     21.0,
+     39.9,
+     31.2
     ]
    },
    {
@@ -4110,10 +4090,10 @@ window.STYLE11_LOOKS = [
     "url": "https://www.dillards.com/p/lauren-ralph-lauren-gold-tone-tortoise-hoop-earrings/521740373?googleShop=Y&utm_source=Pinterest&utm_medium=organic&epik=dj0yJnU9Wi1aTndOYlExeGxrckNTakNUZ1FSWUJWSFRGM01od1kmcD0wJm49dnZMdUJ4b291NGR4RzdqUFpTOHMtZyZ0PUFBQUFBR3NENWFn",
     "affiliate": false,
     "box": [
-     6.2,
-     45.9,
-     16.7,
-     9.2
+     3.3,
+     5.6,
+     22.3,
+     12.2
     ]
    },
    {
@@ -4122,10 +4102,10 @@ window.STYLE11_LOOKS = [
     "url": "https://www.amazon.com/dp/B0DCR2V2H7?ref_=cm_sw_r_cp_ud_dp_TYHPN4RQ57BAPNE8G1X4",
     "affiliate": false,
     "box": [
-     30.8,
-     45.9,
-     11.6,
-     9.2
+     25.4,
+     2.7,
+     22.3,
+     17.9
     ]
    }
   ]
